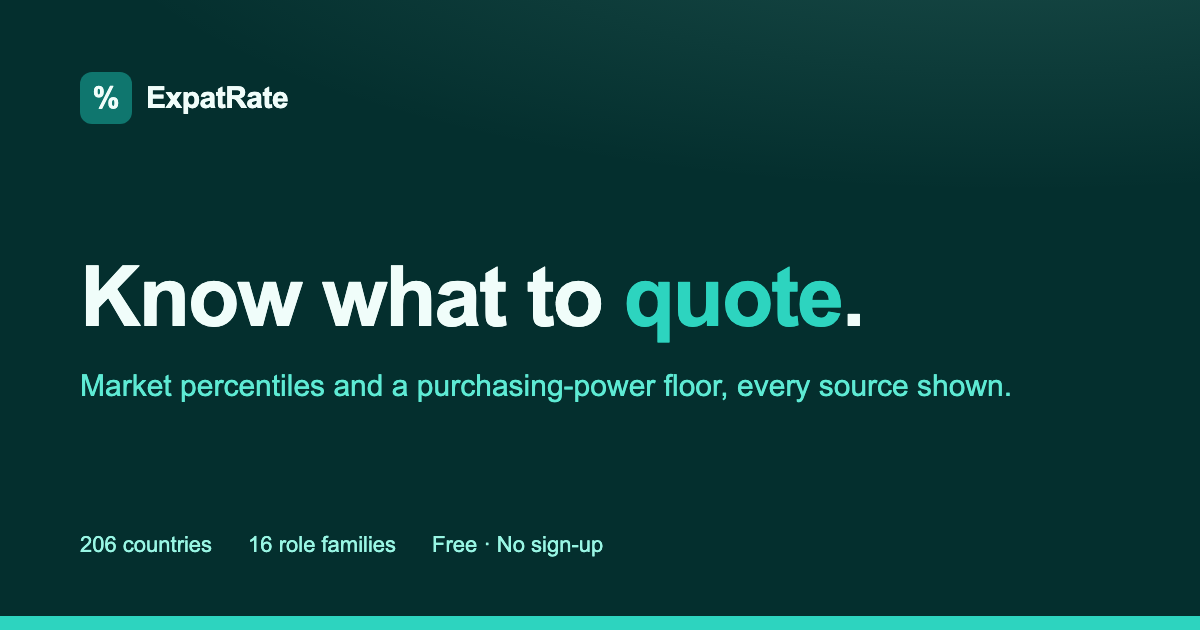
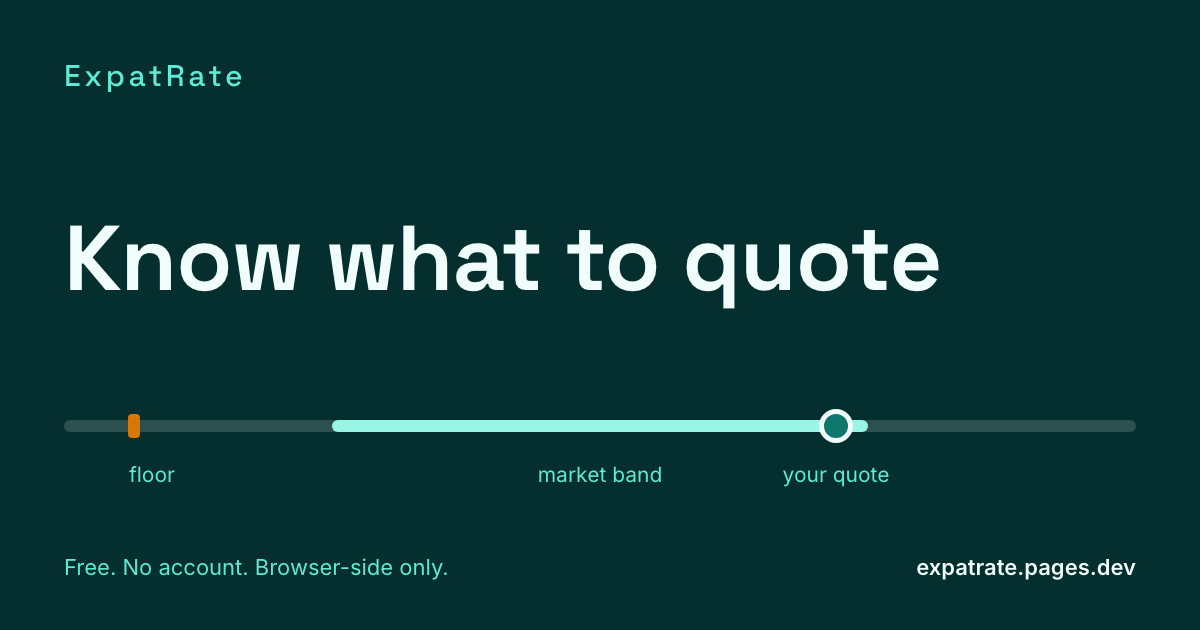
Designed OG share image: token-driven generator renders the tagline and range-bar motif, self-verifying pixel checks replace the text-free fill

diff --git a/tests/og.test.ts b/tests/og.test.ts
@@ -1,0 +1,17 @@
+import { readFileSync } from 'node:fs';
+import { fileURLToPath } from 'node:url';
+import { expect, test } from 'vitest';
+
+const root = fileURLToPath(new URL('..', import.meta.url));
+
+test('the OG share image is a 1200x630 PNG with real content', () => {
+  const png = readFileSync(`${root}public/og-default.png`);
+  expect(png.readUInt32BE(0)).toBe(0x89504e47); // PNG signature
+  // IHDR: width and height as big-endian uint32.
+  expect(png.readUInt32BE(16)).toBe(1200);
+  expect(png.readUInt32BE(20)).toBe(630);
+  const colorType = png[25];
+  expect([2, 6]).toContain(colorType);
+  // A designed image (text, band, markers), not a flat color fill.
+  expect(png.length).toBeGreaterThan(30_000);
+});
